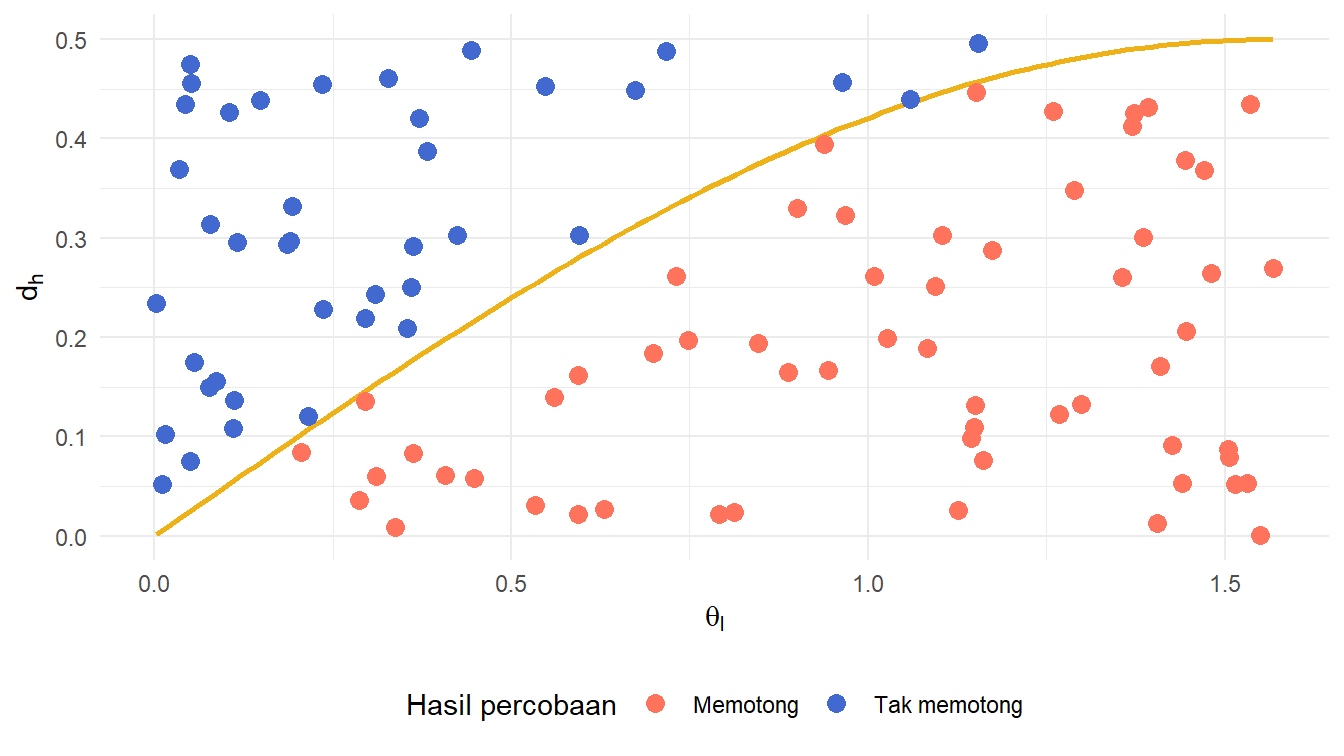
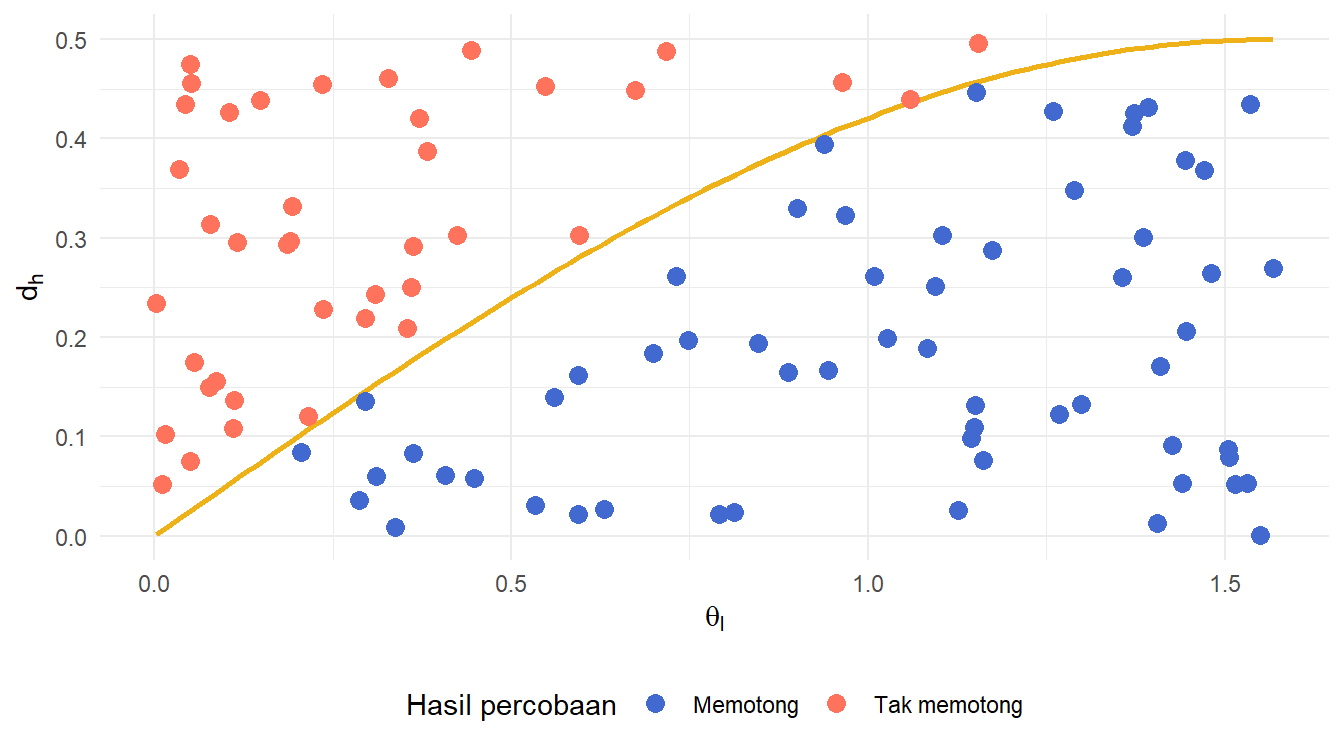
Memperbarui draf pos simulasi Monte Carlo

diff --git a/docs/pos/2025-10-simulasi-monte-carlo/index.html b/docs/pos/2025-10-simulasi-monte-carlo/index.html
@@ -978,7 +978,7 @@ Gambar&nbsp;7: Tren peluang empiris
 </div>
 </div>
 </div>
-<p>Kita juga dapat memvisualisasikan apakah setiap percobaan dalam eksperimen tersebut menghasilkan jarum yang memotong garis atau tidak dengan menggunakan <a href="#eq-kondisi" class="quarto-xref">Persamaan&nbsp;2</a>. Caranya, kita representasikan setiap percobaan dalam eksperimen tersebut dengan titik <span class="math inline">\(\left(\theta_{l},d_{h}\right)\)</span>. Jika titik tersebut di atas kurva <span class="math inline">\(y=\frac{1}{2}\sin\left(x\right)\)</span>, percobaannya menghasilkan jarum yang memotong garis. Dengan menggunakan ide seperti ini, kita mendapatkan visualisasi yang disajikan pada <a href="#fig-luaran-percobaan-sin" class="quarto-xref">Gambar&nbsp;8</a>.</p>
+<p>Kita juga dapat memvisualisasikan apakah setiap percobaan dalam eksperimen tersebut menghasilkan jarum yang memotong garis atau tidak dengan menggunakan <a href="#eq-kondisi" class="quarto-xref">Persamaan&nbsp;2</a>. Caranya, kita representasikan setiap percobaan dalam eksperimen tersebut dengan titik <span class="math inline">\(\left(\theta_{l},d_{h}\right)\)</span>. Jika titik tersebut di bawah kurva <span class="math inline">\(y=\frac{1}{2}\sin\left(x\right)\)</span>, percobaannya menghasilkan jarum yang memotong garis. Dengan menggunakan ide seperti ini, kita mendapatkan visualisasi yang disajikan pada <a href="#fig-luaran-percobaan-sin" class="quarto-xref">Gambar&nbsp;8</a>.</p>
 <div class="cell">
 <details class="code-fold">
 <summary>Kode</summary>
@@ -995,8 +995,8 @@ Gambar&nbsp;7: Tren peluang empiris
 <span id="cb13-11"><a href="#cb13-11" aria-hidden="true" tabindex="-1"></a>  ) <span class="sc">+</span></span>
 <span id="cb13-12"><a href="#cb13-12" aria-hidden="true" tabindex="-1"></a>  <span class="fu">scale_color_manual</span>(</span>
 <span id="cb13-13"><a href="#cb13-13" aria-hidden="true" tabindex="-1"></a>    <span class="at">values =</span> <span class="fu">c</span>(</span>
-<span id="cb13-14"><a href="#cb13-14" aria-hidden="true" tabindex="-1"></a>      <span class="st">"Memotong"</span> <span class="ot">=</span> <span class="st">"#ff725c"</span>,</span>
-<span id="cb13-15"><a href="#cb13-15" aria-hidden="true" tabindex="-1"></a>      <span class="st">"Tak memotong"</span> <span class="ot">=</span> <span class="st">"#4269d0"</span></span>
+<span id="cb13-14"><a href="#cb13-14" aria-hidden="true" tabindex="-1"></a>      <span class="st">"Memotong"</span> <span class="ot">=</span> <span class="st">"#4269d0"</span>,</span>
+<span id="cb13-15"><a href="#cb13-15" aria-hidden="true" tabindex="-1"></a>      <span class="st">"Tak memotong"</span> <span class="ot">=</span> <span class="st">"#ff725c"</span></span>
 <span id="cb13-16"><a href="#cb13-16" aria-hidden="true" tabindex="-1"></a>    ),</span>
 <span id="cb13-17"><a href="#cb13-17" aria-hidden="true" tabindex="-1"></a>    <span class="at">name =</span> <span class="st">"Hasil percobaan"</span></span>
 <span id="cb13-18"><a href="#cb13-18" aria-hidden="true" tabindex="-1"></a>  ) <span class="sc">+</span></span>
@@ -1076,14 +1076,32 @@ Daftar&nbsp;8: Membuat data eksperimen pelemparan jarum secara acak
 </div>
 <p>Fungsi <code>eksperimen_buffon()</code> dapat kita gunakan untuk membuat data hasil eksperimen masalah jarum Buffon dengan input <code>n</code>, yaitu banyaknya percobaan dalam eksperimen tersebut. Dengan demikian, jika kita ingin membuat <code>data_eksperimen</code> yang memuat <span class="math inline">\(n=1000\)</span> percobaan, kita manfaatkan fungsi tersebut seperti pada <a href="#lst-seribu-percobaan" class="quarto-xref">Daftar&nbsp;9</a>.</p>
 <div class="cell">
-<div id="lst-seribu-percobaan" class="r cell-code listing quarto-float quarto-figure quarto-figure-left anchored" data-code-fold="false">
+<div id="lst-seribu-percobaan" class="r cell-code listing quarto-float quarto-figure quarto-figure-left anchored" data-code-fold="show">
 <figure class="quarto-float quarto-float-lst figure">
 <figcaption class="quarto-float-caption-top quarto-float-caption quarto-float-lst" id="lst-seribu-percobaan-caption-0ceaefa1-69ba-4598-a22c-09a6ac19f8ca">
 Daftar&nbsp;9: Membuat <code>data_eksperimen</code> dengan 1000 percobaan
 </figcaption>
 <div aria-describedby="lst-seribu-percobaan-caption-0ceaefa1-69ba-4598-a22c-09a6ac19f8ca">
-<div class="sourceCode cell-code" id="cb15"><pre class="sourceCode r code-with-copy"><code class="sourceCode r"><span id="cb15-1"><a href="#cb15-1" aria-hidden="true" tabindex="-1"></a>data_eksperimen <span class="ot">&lt;-</span> <span class="fu">eksperimen_buffon</span>(<span class="dv">1000</span>)</span>
-<span id="cb15-2"><a href="#cb15-2" aria-hidden="true" tabindex="-1"></a><span class="fu">glimpse</span>(data_eksperimen)</span></code><button title="Salin ke Papan Klip" class="code-copy-button"><i class="bi"></i></button></pre></div>
+<details open="" class="code-fold">
+<summary>Kode</summary>
+<div class="sourceCode cell-code" id="cb15"><pre class="sourceCode r code-with-copy"><code class="sourceCode r"><span id="cb15-1"><a href="#cb15-1" aria-hidden="true" tabindex="-1"></a>data_eksperimen <span class="ot">&lt;-</span> <span class="fu">eksperimen_buffon</span>(<span class="dv">1000</span>)</span></code><button title="Salin ke Papan Klip" class="code-copy-button"><i class="bi"></i></button></pre></div>
+</details>
+</div>
+</figure>
+</div>
+</div>
+<p>Untuk melihat secara sekilas hasil eksperimen yang dimuat dalam <code>data_eksperimen</code> tersebut, kita dapat menggunakan <code>glimpse()</code>.</p>
+<div class="cell">
+<div id="lst-glimpse-data-eksperimen" class="r cell-code listing quarto-float quarto-figure quarto-figure-left anchored" data-code-fold="show">
+<figure class="quarto-float quarto-float-lst figure">
+<figcaption class="quarto-float-caption-top quarto-float-caption quarto-float-lst" id="lst-glimpse-data-eksperimen-caption-0ceaefa1-69ba-4598-a22c-09a6ac19f8ca">
+Daftar&nbsp;10: Melihat gambaran umum <code>data_eksperimen</code>
+</figcaption>
+<div aria-describedby="lst-glimpse-data-eksperimen-caption-0ceaefa1-69ba-4598-a22c-09a6ac19f8ca">
+<details open="" class="code-fold">
+<summary>Kode</summary>
+<div class="sourceCode cell-code" id="cb16"><pre class="sourceCode r code-with-copy"><code class="sourceCode r"><span id="cb16-1"><a href="#cb16-1" aria-hidden="true" tabindex="-1"></a><span class="fu">glimpse</span>(data_eksperimen)</span></code><button title="Salin ke Papan Klip" class="code-copy-button"><i class="bi"></i></button></pre></div>
+</details>
 </div>
 </figure>
 </div>
@@ -1104,6 +1122,76 @@ $ d_h             &lt;dbl&gt; 0.02945260, 0.36712720, 0.45605951, 0.48059253, 0.
 $ potong          &lt;chr&gt; "Memotong", "Tak memotong", "Tak memotong", "Tak memot…
 $ potong_numerik  &lt;dbl&gt; 1, 0, 0, 0, 1, 0, 0, 1, 0, 1, 1, 1, 1, 1, 1, 1, 0, 0, …
 $ peluang_empiris &lt;dbl&gt; 1.0000000, 0.5000000, 0.3333333, 0.2500000, 0.4000000,…</code></pre>
+</div>
+</div>
+<p>Berdasarkan luaran kode dari <a href="#lst-glimpse-data-eksperimen" class="quarto-xref">Daftar&nbsp;10</a>, kita dapat melihat bahwa <code>data_eksperimen</code> tersebut memiliki 14 variabel, mulai dari <code>x1</code>, <code>y1</code>, <code>theta</code>, sampai <code>peluang_empiris</code>. Data tersebut juga memuat 1000 baris yang setiap barisnya merupakan hasil percobaan dalam eksperimen. Dengan demikian, kita mendapatkan <code>data_eksperimen</code> yang kita kehendaki.</p>
+<p>Berikutnya, kita akan membuat visualisasi seperti pada <a href="#fig-vis-hasil-eksperimen" class="quarto-xref">Gambar&nbsp;5</a>, tetapi dengan menggunakan animasi. Dalam animasi tersebut, kita buat agar jarumnya tampak jatuh ke kertas secara bergiliran. Kita lakukan hal ini dengan kode pada <a href="#lst-animasi-jarum-jatuh" class="quarto-xref">Daftar&nbsp;11</a>.</p>
+<div class="cell">
+<div id="lst-animasi-jarum-jatuh" class="r cell-code listing quarto-float quarto-figure quarto-figure-left anchored" data-code-fold="show">
+<figure class="quarto-float quarto-float-lst figure">
+<figcaption class="quarto-float-caption-top quarto-float-caption quarto-float-lst" id="lst-animasi-jarum-jatuh-caption-0ceaefa1-69ba-4598-a22c-09a6ac19f8ca">
+Daftar&nbsp;11: Menganimasikan jarum yang jatuh ke kertas
+</figcaption>
+<div aria-describedby="lst-animasi-jarum-jatuh-caption-0ceaefa1-69ba-4598-a22c-09a6ac19f8ca">
+<details open="" class="code-fold">
+<summary>Kode</summary>
+<div class="sourceCode cell-code" id="cb18"><pre class="sourceCode r code-with-copy"><code class="sourceCode r"><span id="cb18-1"><a href="#cb18-1" aria-hidden="true" tabindex="-1"></a>plot_anim_jarum <span class="ot">&lt;-</span> data_eksperimen <span class="sc">|&gt;</span> </span>
+<span id="cb18-2"><a href="#cb18-2" aria-hidden="true" tabindex="-1"></a>  <span class="fu">ggplot</span>() <span class="sc">+</span> </span>
+<span id="cb18-3"><a href="#cb18-3" aria-hidden="true" tabindex="-1"></a>  <span class="fu">geom_hline</span>(</span>
+<span id="cb18-4"><a href="#cb18-4" aria-hidden="true" tabindex="-1"></a>    <span class="at">yintercept =</span> <span class="dv">0</span><span class="sc">:</span><span class="dv">10</span>,</span>
+<span id="cb18-5"><a href="#cb18-5" aria-hidden="true" tabindex="-1"></a>    <span class="at">color =</span> <span class="st">"gray80"</span>,</span>
+<span id="cb18-6"><a href="#cb18-6" aria-hidden="true" tabindex="-1"></a>    <span class="at">linewidth =</span> <span class="fl">0.5</span></span>
+<span id="cb18-7"><a href="#cb18-7" aria-hidden="true" tabindex="-1"></a>  ) <span class="sc">+</span> </span>
+<span id="cb18-8"><a href="#cb18-8" aria-hidden="true" tabindex="-1"></a>  <span class="fu">geom_segment</span>(</span>
+<span id="cb18-9"><a href="#cb18-9" aria-hidden="true" tabindex="-1"></a>    <span class="fu">aes</span>(</span>
+<span id="cb18-10"><a href="#cb18-10" aria-hidden="true" tabindex="-1"></a>      <span class="at">x =</span> x1, <span class="at">y =</span> y1,</span>
+<span id="cb18-11"><a href="#cb18-11" aria-hidden="true" tabindex="-1"></a>      <span class="at">xend =</span> x2, <span class="at">yend =</span> y2,</span>
+<span id="cb18-12"><a href="#cb18-12" aria-hidden="true" tabindex="-1"></a>      <span class="at">group =</span> percobaan,</span>
+<span id="cb18-13"><a href="#cb18-13" aria-hidden="true" tabindex="-1"></a>      <span class="at">color =</span> warna</span>
+<span id="cb18-14"><a href="#cb18-14" aria-hidden="true" tabindex="-1"></a>    ),</span>
+<span id="cb18-15"><a href="#cb18-15" aria-hidden="true" tabindex="-1"></a>    <span class="at">linewidth =</span> <span class="fl">1.5</span></span>
+<span id="cb18-16"><a href="#cb18-16" aria-hidden="true" tabindex="-1"></a>  ) <span class="sc">+</span> </span>
+<span id="cb18-17"><a href="#cb18-17" aria-hidden="true" tabindex="-1"></a>  <span class="fu">coord_equal</span>(</span>
+<span id="cb18-18"><a href="#cb18-18" aria-hidden="true" tabindex="-1"></a>    <span class="at">xlim =</span> <span class="fu">c</span>(<span class="dv">0</span>, <span class="dv">10</span>),</span>
+<span id="cb18-19"><a href="#cb18-19" aria-hidden="true" tabindex="-1"></a>    <span class="at">ylim =</span> <span class="fu">c</span>(<span class="dv">0</span>, <span class="dv">10</span>)</span>
+<span id="cb18-20"><a href="#cb18-20" aria-hidden="true" tabindex="-1"></a>  ) <span class="sc">+</span> </span>
+<span id="cb18-21"><a href="#cb18-21" aria-hidden="true" tabindex="-1"></a>  <span class="fu">scale_x_continuous</span>(</span>
+<span id="cb18-22"><a href="#cb18-22" aria-hidden="true" tabindex="-1"></a>    <span class="at">breaks =</span> <span class="dv">0</span><span class="sc">:</span><span class="dv">10</span></span>
+<span id="cb18-23"><a href="#cb18-23" aria-hidden="true" tabindex="-1"></a>  ) <span class="sc">+</span> </span>
+<span id="cb18-24"><a href="#cb18-24" aria-hidden="true" tabindex="-1"></a>  <span class="fu">scale_y_continuous</span>(</span>
+<span id="cb18-25"><a href="#cb18-25" aria-hidden="true" tabindex="-1"></a>    <span class="at">breaks =</span> <span class="dv">0</span><span class="sc">:</span><span class="dv">10</span></span>
+<span id="cb18-26"><a href="#cb18-26" aria-hidden="true" tabindex="-1"></a>  ) <span class="sc">+</span> </span>
+<span id="cb18-27"><a href="#cb18-27" aria-hidden="true" tabindex="-1"></a>  <span class="fu">scale_color_identity</span>() <span class="sc">+</span> </span>
+<span id="cb18-28"><a href="#cb18-28" aria-hidden="true" tabindex="-1"></a>  <span class="fu">theme_bw</span>() <span class="sc">+</span> </span>
+<span id="cb18-29"><a href="#cb18-29" aria-hidden="true" tabindex="-1"></a>  <span class="fu">theme</span>(</span>
+<span id="cb18-30"><a href="#cb18-30" aria-hidden="true" tabindex="-1"></a>    <span class="at">legend.position =</span> <span class="st">"none"</span>,</span>
+<span id="cb18-31"><a href="#cb18-31" aria-hidden="true" tabindex="-1"></a>    <span class="at">axis.title =</span> <span class="fu">element_blank</span>(),</span>
+<span id="cb18-32"><a href="#cb18-32" aria-hidden="true" tabindex="-1"></a>    <span class="at">panel.grid =</span> <span class="fu">element_blank</span>(),</span>
+<span id="cb18-33"><a href="#cb18-33" aria-hidden="true" tabindex="-1"></a>    <span class="at">plot.margin =</span> <span class="fu">unit</span>(<span class="fu">c</span>(.<span class="dv">5</span>, .<span class="dv">5</span>, .<span class="dv">5</span>, .<span class="dv">5</span>), <span class="st">"cm"</span>)</span>
+<span id="cb18-34"><a href="#cb18-34" aria-hidden="true" tabindex="-1"></a>  ) <span class="sc">+</span> </span>
+<span id="cb18-35"><a href="#cb18-35" aria-hidden="true" tabindex="-1"></a>  <span class="fu">transition_reveal</span>(<span class="at">along =</span> percobaan)</span></code><button title="Salin ke Papan Klip" class="code-copy-button"><i class="bi"></i></button></pre></div>
+</details>
+</div>
+</figure>
+</div>
+</div>
+<p>Sekarang kita telah memiliki objek <code>plot_anim_jarum</code>. Objek tersebut merupakan objek gganim yang menyajikan animasi eksperimen pelemparan jarum ke kertas. Kita cetak objek tersebut, dan hasilnya disajikan pada <a href="#fig-animasi-jarum-jatuh" class="quarto-xref">Gambar&nbsp;9</a>.</p>
+<div class="cell">
+<details class="code-fold">
+<summary>Kode</summary>
+<div class="sourceCode cell-code" id="cb19"><pre class="sourceCode r code-with-copy"><code class="sourceCode r"><span id="cb19-1"><a href="#cb19-1" aria-hidden="true" tabindex="-1"></a>plot_anim_jarum</span></code><button title="Salin ke Papan Klip" class="code-copy-button"><i class="bi"></i></button></pre></div>
+</details>
+<div class="cell-output-display">
+<div id="fig-animasi-jarum-jatuh" class="quarto-float quarto-figure quarto-figure-center anchored">
+<figure class="quarto-float quarto-float-fig figure">
+<div aria-describedby="fig-animasi-jarum-jatuh-caption-0ceaefa1-69ba-4598-a22c-09a6ac19f8ca">
+<a href="index_files/figure-html/fig-animasi-jarum-jatuh-1.gif" class="lightbox" data-gallery="quarto-lightbox-gallery-9" title="Gambar&nbsp;9: Animasi yang mengilustrasikan eksperimen masalah jarum Buffon yang memuat 1000 percobaan"><img src="index_files/figure-html/fig-animasi-jarum-jatuh-1.gif" class="img-fluid figure-img"></a>
+</div>
+<figcaption class="quarto-float-caption-bottom quarto-float-caption quarto-float-fig" id="fig-animasi-jarum-jatuh-caption-0ceaefa1-69ba-4598-a22c-09a6ac19f8ca">
+Gambar&nbsp;9: Animasi yang mengilustrasikan eksperimen masalah jarum Buffon yang memuat 1000 percobaan
+</figcaption>
+</figure>
+</div>
 </div>
 </div>
 
